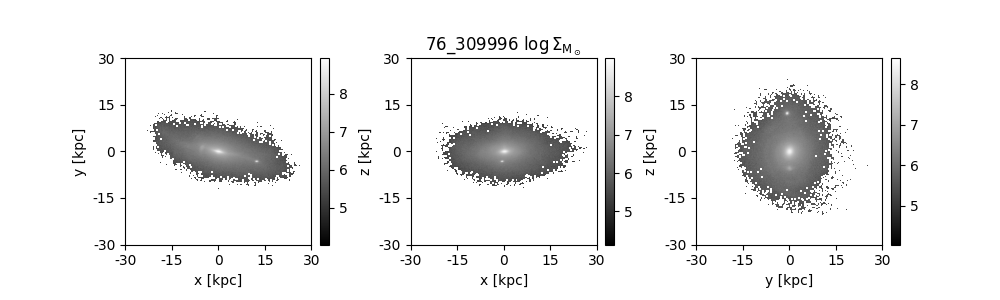
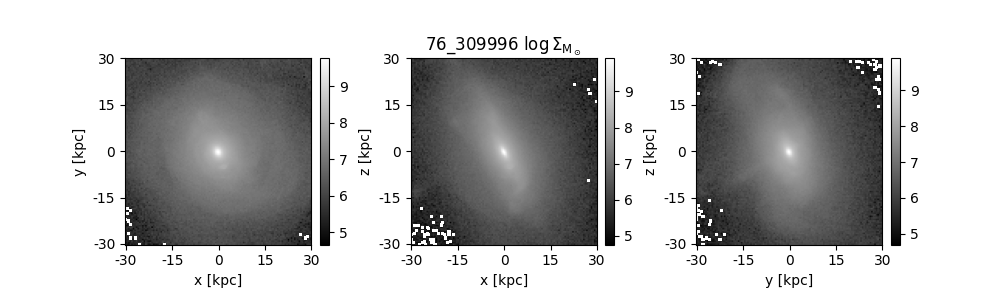
Add subhalo mode as default, fix plot error, remove rotation, change resolution"

diff --git a/illustris_to_stellarmap.py b/illustris_to_stellarmap.py
@@ -21,7 +21,7 @@ cosmo = LambdaCDM(H0=100*h, Om0=0.3089, Ob0=0.0486, Ode0=0.6911, Tcmb0=2.73)
 snapZ = np.load('snapTNG.npy')
 headers = {"api-key":"ff352a2affacf64753689dd603b5b44e"} #replace with your API-KEY
 
-def solve_coordinates(X, cm, rotation, simulation='TNG50-1'):
+def solve_coordinates(X, cm, rotation=np.identity(3), simulation='TNG50-1'):
     rotated = rotation.dot((correct_periodic_distances(X, simulation) - correct_periodic_distances(cm, simulation)).T).T * u.kpc
     coords = rotated.to(u.pc) * a / cosmo.h
     x = np.squeeze(np.array(coords.T[0], float))
@@ -45,7 +45,7 @@ def load_stellar(stellar, shPos, snap):
     ages = cosmo.lookback_time(1/stellar['GFM_StellarFormationTime'][:][stars] - 1) - cosmo.lookback_time(snapZ.T[snap][1])
     print('Loading stellar particles')
     
-    x, y, z = solve_coordinates(stellar['Coordinates'][:][stars], shPos, rotation, simulation=simulation)
+    x, y, z = solve_coordinates(stellar['Coordinates'][:][stars], shPos, simulation=simulation)
 
 
     within_fov = np.where((abs(x) < FOV*1000/2) & (abs(y) <  FOV*1000/2) & (abs(z) <  FOV*1000/2))
@@ -367,28 +367,20 @@ if __name__ == '__main__':
     redshift_snap = snapZ[1][snap]
     a = cosmo.scale_factor(redshift_snap)
 
+    
+    url = f'https://www.tng-project.org/api/{simulation}/snapshots/{snap}/subhalos/{subfind}/'
+    json = get(url)
+
+    halomode = 'halomode' in sys.argv
     if not os.path.exists(f'data/{simulation}_{name}_stars_.dat'):
         print('catalogs not found, loading particle data and extracting info...')
-    
-        halo, json, rHalf, shPos = io(name, simulation)    
+        halo, json, rHalf, shPos = io(name, simulation, halomode=halomode)    
         try:
             gas = halo['PartType0']
         except:
             gas = None
         
         stellar = halo['PartType4']
-
-
-        """
-        Find the rotation matrix that translated the x, y plane to faceon view.
-        If it is not possible to estimate it, return the identity matrix.
-        """
-        try:
-            rotation = find_faceon_rotation(gas, stellar, shPos, rHalf, a)
-            print(f'Finding face-on rotation matrix...')
-            print(f'R(x, y, z) = {rotation}')
-        except:
-            rotation = np.identity(3)
 
         galaxev_df = load_particles(stellar, gas, shPos, snap, simulation)
         galaxev_df[['x', 'y', 'z', 'h', 'mass', 'Z', 'age']].to_csv(f'data/{simulation}_{name}_stars_.dat', sep=' ', float_format='%g', header=False, index=False)
@@ -398,7 +390,9 @@ if __name__ == '__main__':
         
     
     ### Plot mass map
-    grid_resolution = 100 # 100 pc / pix
+    grid_resolution = 500 # 500 pc / pix
+    
+    
     galaxev_df["x_grid"] = np.floor(galaxev_df["x"] / grid_resolution).astype(int)
     galaxev_df["y_grid"] = np.floor(galaxev_df["y"] / grid_resolution).astype(int)
     galaxev_df["z_grid"] = np.floor(galaxev_df["z"] / grid_resolution).astype(int)
@@ -407,29 +401,30 @@ if __name__ == '__main__':
     'xy' : galaxev_df.groupby(["x_grid", "y_grid"])["mass"]
                 .sum()
                 .unstack(fill_value=0)
-                .values,
+                .values.astype(float),
     'xz' : galaxev_df.groupby(["x_grid", "z_grid"])["mass"]
                 .sum()
                 .unstack(fill_value=0)
-                .values,
+                .values.astype(float),
     'yz' : galaxev_df.groupby(["y_grid", "z_grid"])["mass"]
                 .sum()
                 .unstack(fill_value=0)
-                .values
+                .values.astype(float)
     }
 
     from astropy.convolution import Gaussian2DKernel, interpolate_replace_nans,convolve
-    kernel = Gaussian2DKernel(x_stddev=0.01)
+    #kernel = Gaussian2DKernel(x_stddev=0.01)
 
 
     f, axs = plt.subplots(1, 3, figsize=(10, 3))
 
-
-    a = axs[0].imshow(np.log10(convolve(mass_grid['xy'], kernel)), origin='lower', cmap='gist_gray')
+    import numpy as np
+    print(np)
+    a = axs[0].imshow(np.log10(mass_grid['xy']), origin='lower', cmap='gist_gray')
     plt.colorbar(a, fraction=0.046, pad=0.04)
-    a = axs[1].imshow(np.log10(convolve(mass_grid['xz'], kernel)), origin='lower', cmap='gist_gray')
+    a = axs[1].imshow(np.log10(mass_grid['xz']), origin='lower', cmap='gist_gray')
     plt.colorbar(a, fraction=0.046, pad=0.04)
-    a = axs[2].imshow(np.log10(convolve(mass_grid['yz'], kernel)), origin='lower', cmap='gist_gray')
+    a = axs[2].imshow(np.log10(mass_grid['yz']), origin='lower', cmap='gist_gray')
     plt.colorbar(a, fraction=0.046, pad=0.04)
     axs[1].set_title(f'{name} ' + r'$\log \rm \Sigma_{M_\odot}$')
     plt.subplots_adjust(wspace=0.4)

diff --git a/utils.py b/utils.py
@@ -108,8 +108,13 @@ def io(name, simulation='TNG50-1', halomode=True):
         print('Working on subhalo mode, only subhalo particles are going to be used.')
         halo_url = json['cutouts']['subhalo']
         halo_id = halo_url.split('/')[-2]
-        filename = f'subhalo_{simulation}_{snap}_{halo_id}'
+        filename = f'cutout_{simulation}_{snap}_{subfind}_{halo_id}'
         halo_url = halo_url.replace('http:', 'https:')
+        if not os.path.exists(f'particledata/{filename}.hdf5'):
+            print(f'Particle data not found. Downloading...')
+            filename = get(halo_url, filename=f'{filename}')
+        else:
+            print(f'Particle data found. Using {filename}.hdf5')
 
     
     
